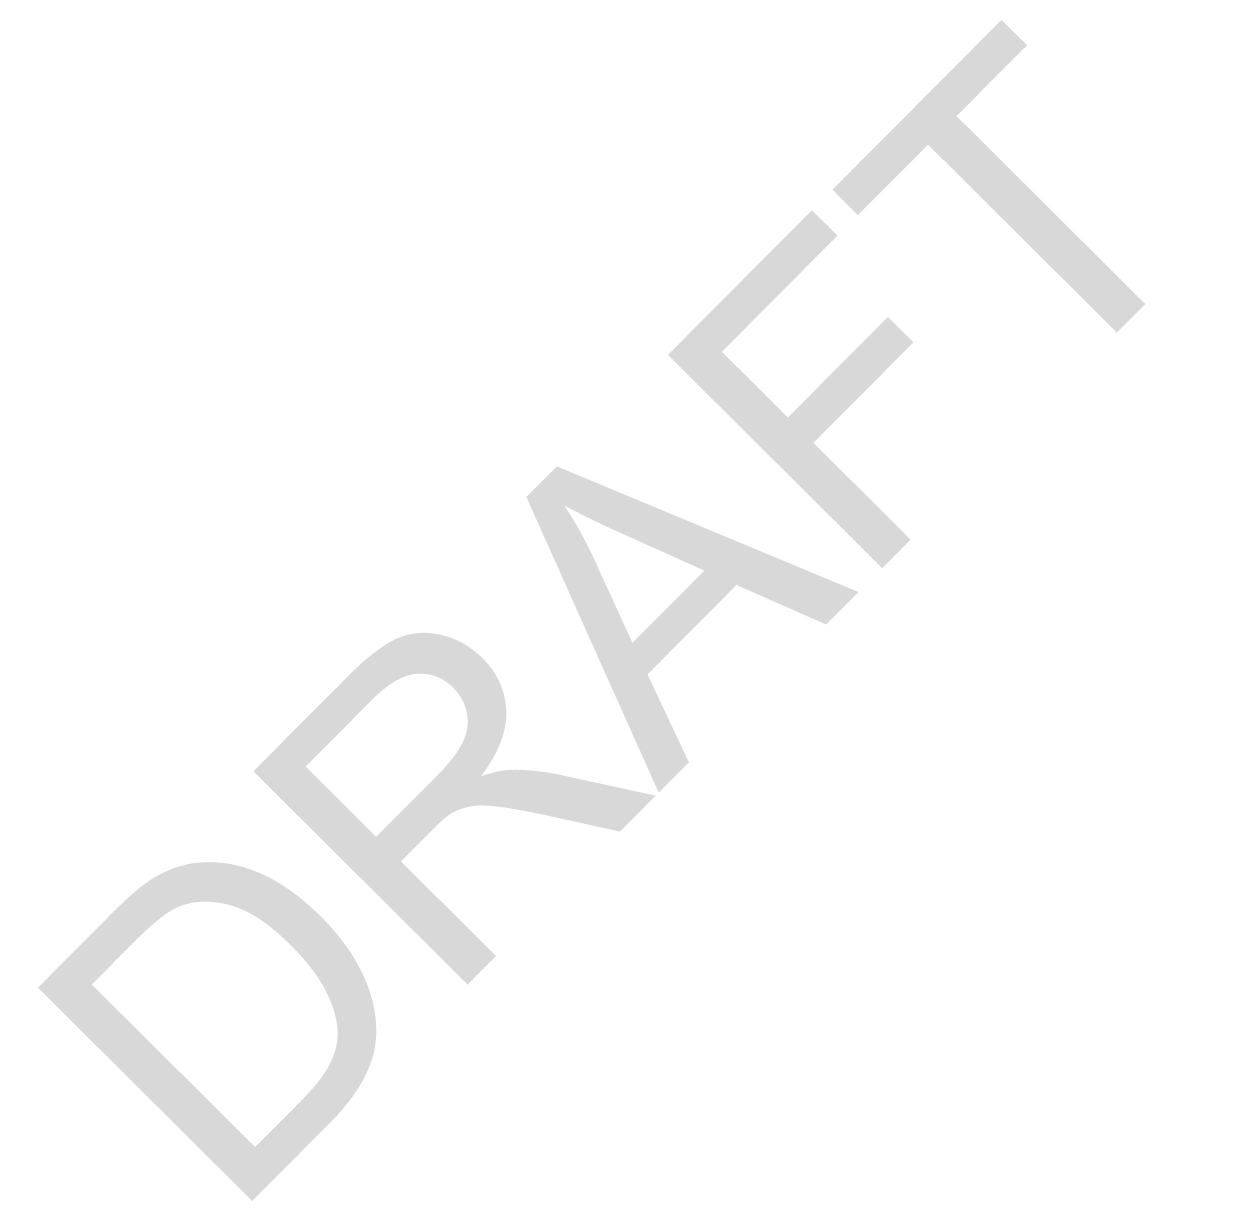
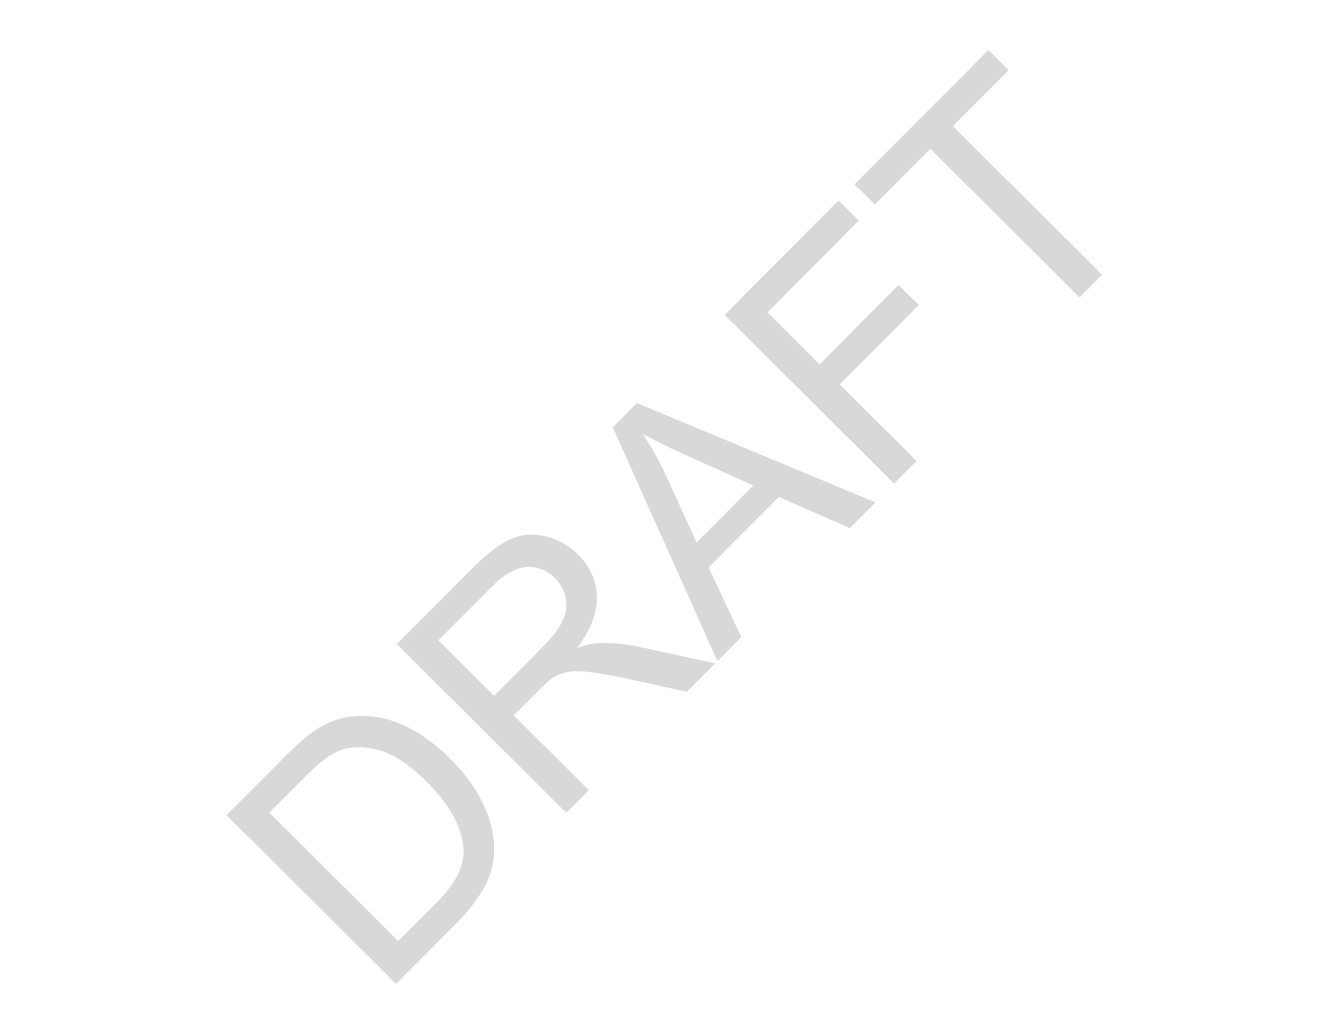
added additional water mark images for other pages

Changed region(s): [[0.0306, 0.3714, 0.5512, 0.9903], [0.5205, 0.2166, 0.7349, 0.5261], [0.6124, 0.0, 0.9186, 0.2785]]

diff --git a/service/src/main/java/uk/gov/hmcts/reform/fpl/service/CaseDataExtractionService.java b/service/src/main/java/uk/gov/hmcts/reform/fpl/service/CaseDataExtractionService.java
@@ -103,7 +103,7 @@ public class CaseDataExtractionService {
         data.putAll(getGroupedDirections(caseData));
         data.putAll(getHearingBookingData(caseData));
 
-        if (isNotEmpty(caseData.getStandardDirectionOrder())
+        if (isNotEmpty(caseData.getStandardD    irectionOrder())
             && caseData.getStandardDirectionOrder().getOrderStatus() != SEALED) {
             byte[] fileContent;
             try {
@@ -111,6 +111,8 @@ public class CaseDataExtractionService {
                 String encodedString = Base64.getEncoder().encodeToString(fileContent);
 
                 data.put("draftBackground", String.format("image:base64:%1$s", encodedString));
+                data.put("draftBackground2", String.format("image:base64:%1$s", encodedString));
+                data.put("draftBackground3", String.format("image:base64:%1$s", encodedString));
             } catch (IOException e) {
                 log.warn(e.getMessage());
             }
